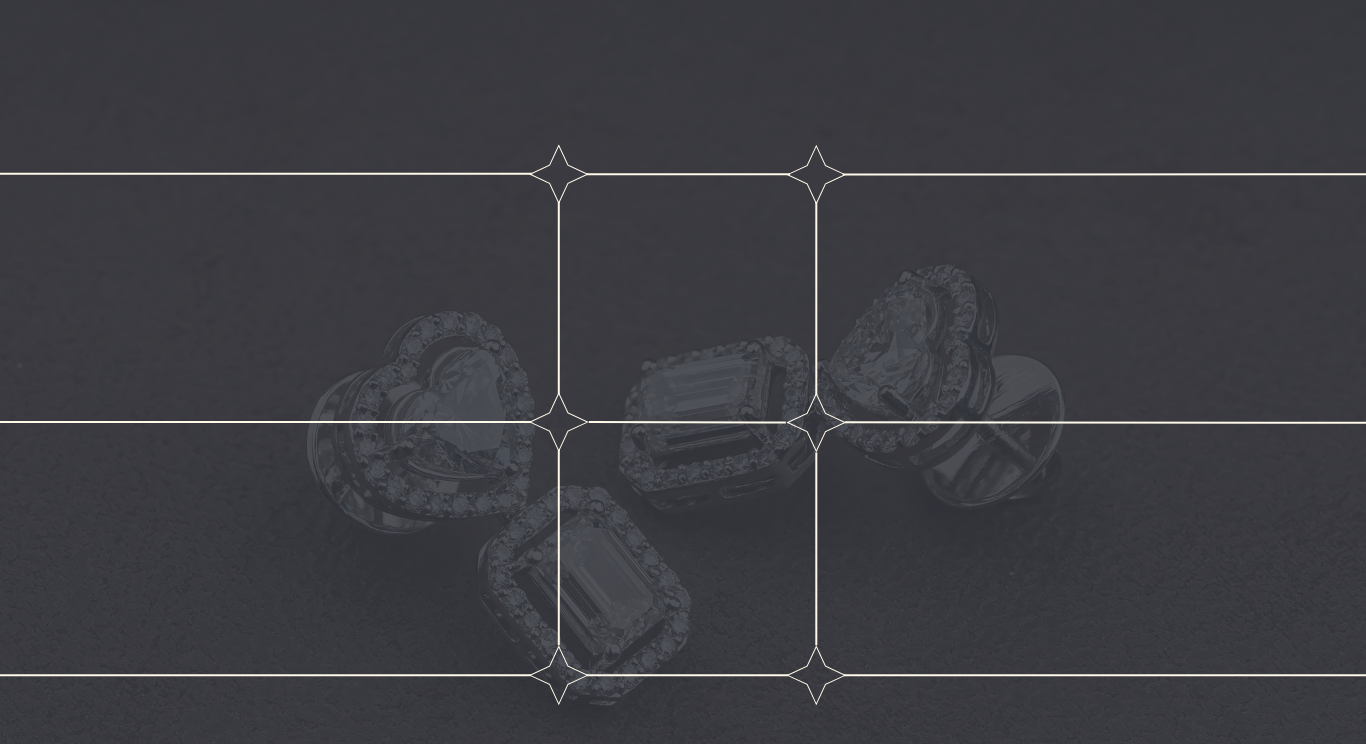
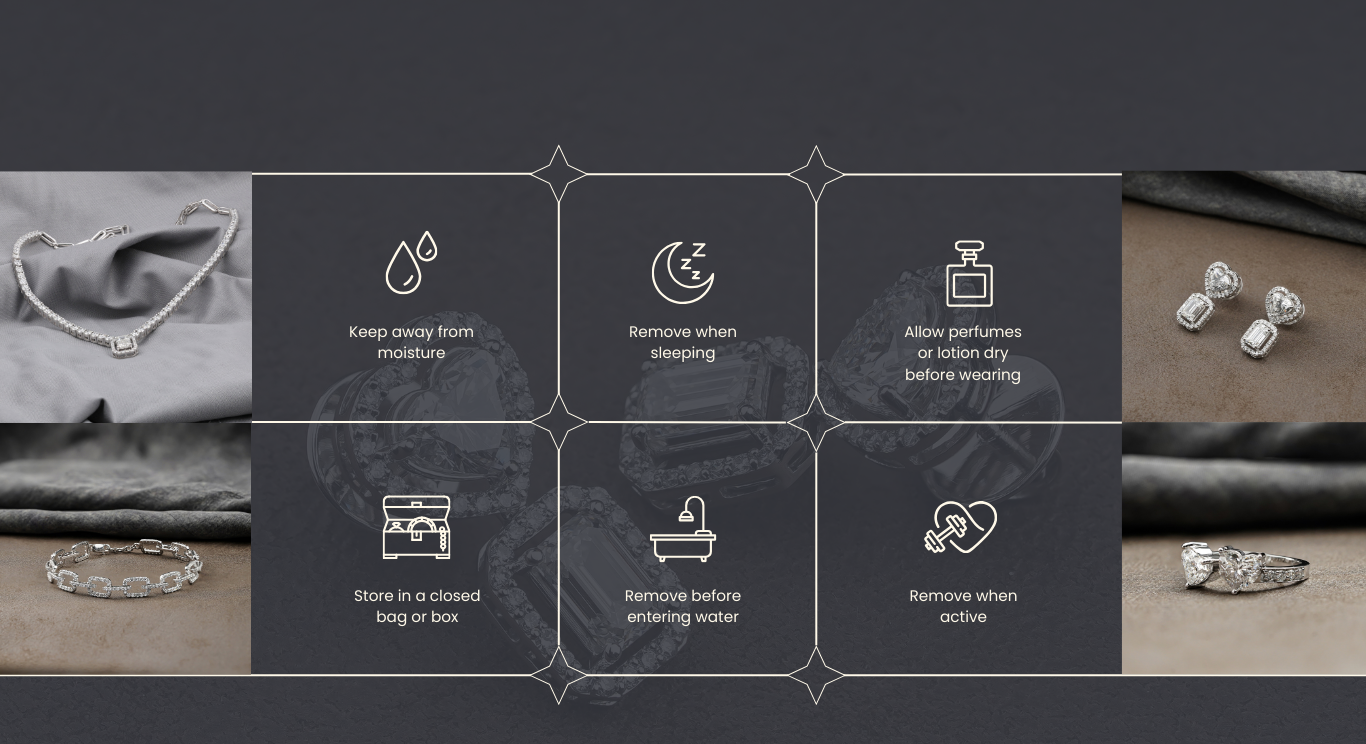
added: jewelry blog

diff --git a/src/components/JewelleryCare.jsx b/src/components/JewelleryCare.jsx
@@ -1,0 +1,97 @@
+import React from 'react';
+import Image from 'next/image';
+import background from '../../public/images/Home/jewelry-bg.png';
+import { motion } from "framer-motion";
+import img1 from '../../public/images/Home/img1.png';
+import img2 from '../../public/images/Home/img2.png';
+import img3 from '../../public/images/Home/img3.png';
+import img4 from '../../public/images/Home/img4.png';
+import drop from '../../public/images/Home/drop.png';
+import moon from '../../public/images/Home/moon.png';
+import bottle from '../../public/images/Home/bottle.png';
+import treasure from '../../public/images/Home/treasure.png';
+import tub from '../../public/images/Home/tub.png';
+import heart from '../../public/images/Home/heart.png';
+
+const JewelleryCare = () => {
+    
+    return (
+        <div className="relative xl:h-auto min-h-screen bg-[#373941]">
+            <div className="">
+                <Image
+                    src={background}
+                    alt="Background"
+                    layout="fill"
+                    // objectFit="fill"
+                    priority
+                    className='xl:object-fill md:object-fill object-contain'
+                />
+            </div>
+            <div className="relative text-center py-12 px-4 md:px-12">
+    <motion.h2
+        className="text-white italic text-2xl md:text-4xl xl:text-5xl"
+        style={{ fontFamily: 'Majesty, cursive' }}
+        initial={{ y: -20, opacity: 0 }}
+        whileInView={{ y: 0, opacity: 1 }}
+        transition={{ duration: 0.6 }}
+        viewport={{ once: false }}
+    >
+        Jewelry Care
+    </motion.h2>
+    <motion.p
+        className="text-white mt-4 text-base md:text-xl xl:text-2xl"
+        style={{ fontFamily: 'var(--font-montserrat)' }}
+        initial={{ y: -20, opacity: 0 }}
+        whileInView={{ y: 0, opacity: 1 }}
+        transition={{ duration: 0.6 }}
+        viewport={{ once: false }}
+    >
+        How should you take care of your jewelry
+    </motion.p>
+</div>
+
+            {/*<div className="relative grid grid-cols-2 sm:grid-cols-3 md:grid-cols-5 gap-6 px-6 pb-16">
+                <div className="flex justify-center items-center">
+                    <Image src={img1} alt="Jewelry" className="object-contain h-auto max-h-60" />
+                </div>
+                <div className="flex flex-col items-center text-center">
+                    <Image src={drop} alt="Moisture Icon" className="w-12 h-12 mb-2" />
+                    <p className="text-white text-sm md:text-base">Keep away from moisture</p>
+                </div>
+                <div className="flex flex-col items-center text-center">
+                    <Image src={moon} alt="Sleep Icon" className="w-12 h-12 mb-2" />
+                    <p className="text-white text-sm md:text-base">Remove when sleeping</p>
+                </div>
+                <div className="flex flex-col items-center text-center">
+                    <Image src={bottle} alt="Perfume Icon" className="w-12 h-12 mb-2" />
+                    <p className="text-white text-sm md:text-base px-2 leading-snug">
+                        Allow perfumes or lotion to dry before wearing
+                    </p>
+                </div>
+                <div className="flex justify-center items-center">
+                    <Image src={img2} alt="Jewelry" className="object-contain h-auto max-h-60" />
+                </div>
+                <div className="flex justify-center items-center">
+                    <Image src={img3} alt="Jewelry" className="object-contain h-auto max-h-60" />
+                </div>
+                <div className="flex flex-col items-center text-center">
+                    <Image src={treasure} alt="Storage Icon" className="w-12 h-12 mb-2" />
+                    <p className="text-white text-sm md:text-base">Store in a closed bag or box</p>
+                </div>
+                <div className="flex flex-col items-center text-center">
+                    <Image src={tub} alt="Water Icon" className="w-12 h-12 mb-2" />
+                    <p className="text-white text-sm md:text-base">Remove before entering water</p>
+                </div>
+                <div className="flex flex-col items-center text-center">
+                    <Image src={heart} alt="Active Icon" className="w-12 h-12 mb-2" />
+                    <p className="text-white text-sm md:text-base">Remove when active</p>
+                </div>
+                <div className="flex justify-center items-center">
+                    <Image src={img4} alt="Jewelry" className="object-contain h-auto max-h-[400px]" />
+                </div>
+            </div> */}
+        </div>
+    );
+};
+
+export default JewelleryCare;

diff --git a/src/app/page.js b/src/app/page.js
@@ -7,7 +7,8 @@ import Image from "next/image";
 import OurProduct from "@/components/OurProductSection";
 import background from "../../public/images/Home/background.png";
 import blog from '../../public/images/Home/blog-forest.png'
-import backgroundForest from '../../public/images/Home/jewelry-bg.png'
+import backgroundForest from '../../public/images/Home/jewellery-icon.png'
+import JewelleryCare from "@/components/JewelleryCare";
 
 const fadeIn = {
   hidden: { opacity: 0, y: 50 },
@@ -34,11 +35,11 @@ const Home = () => {
         <motion.div
           initial="hidden"
           whileInView="visible"
-          viewport={{ once: true }}
+          viewport={{ once: false}}
           variants={fadeIn}
           className="relative flex xl:flex-row flex-col xl:justify-around justify-center items-center p-4 h-screen"
         >
-          <motion.div variants={fadeIn}>
+          <motion.div variants={fadeIn} viewport={false}>
             <Image
               src={story}
               alt="Our Story"
@@ -49,6 +50,7 @@ const Home = () => {
           </motion.div>
           <motion.p
             variants={fadeIn}
+            viewport={{ once: false}}
             className="relative text-xl xl:text-3xl font-medium italic font-montserrat leading-relaxed"
             style={{ fontFamily: "Public Sans, sans" }}
           >
@@ -83,6 +85,7 @@ const Home = () => {
                 initial={{ opacity: 0, y: -30 }}
                 animate={{ opacity: 1, y: 0 }}
                 transition={{ duration: 0.8 }}
+                viewport={{ once: false }}
                 variants={fadeLeft}
                 className="text-3xl md:text-3xl xl:text-4xl italic font-normal mb-8 text-[#323232]"
                 style={{
@@ -94,12 +97,12 @@ const Home = () => {
               </motion.h2>
             </div>
 
-            <div className="grid grid-cols-1 md:grid-cols-3 gap-8 place-items-center">
+            <div className="grid grid-cols-1 md:grid-cols-3 gap-8 place-items-center ">
               <motion.p
                 initial="hidden"
                 whileInView="visible"
-                viewport={{ once: true }}
-                variants={fadeIn} className="font-justify text-xl" style={{ fontFamily: 'var(--font-montserrat)' }}>
+                viewport={{ once: false}}
+                variants={fadeIn} className="font-justify text-sm md:text-base xl:text-xl" style={{ fontFamily: 'var(--font-montserrat)' }}>
                 Our focus is on building strong relationships, offering reliable service, and ensuring that our jewelry meets the highest standards of beauty and quality.
               </motion.p>
 
@@ -112,35 +115,17 @@ const Home = () => {
               <motion.p
                 initial="hidden"
                 whileInView="visible"
-                viewport={{ once: true }}
-                variants={fadeIn} className="font-justify text-xl" style={{ fontFamily: 'var(--font-montserrat)' }}>
+                viewport={{ once: false}}
+                variants={fadeIn} className="font-justify text-sm md:text-base xl:text-xl" style={{ fontFamily: 'var(--font-montserrat)' }}>
                 Whether you are a retailer, wholesaler, or designer, we are here to provide the perfect diamond jewelry solutions tailored to your business needs.
               </motion.p>
             </div>
           </div>
         </div>
       </section>
-      {/* <section>
-        <div className='relative h-screen'>
-          <div className="absolute inset-0 -z-10">
-            <Image
-              src={backgroundForest}
-              alt="background Image"
-              layout="fill"
-              objectFit="fill"
-              priority
-            />
-            <div className="relative grid place-items-center m-4">
-              <h2 className="text-white italic text-5xl" style={{ fontFamily: 'Majesty, Elegant, Script, Luxury, cursive' }}>Jewelry Care</h2>
-              <p className="text-white text-3xl mt-3" style={{ fontFamily: 'var(--font-montserrat)' }}>How should you take care of your jewelry</p>
-            </div>
-            <div className="grid grid-cols-5">
-              <
-
-            </div>
-          </div>
-        </div>
-      </section> */}
+      <section>
+        <JewelleryCare/>
+      </section>
     </div>
   );
 };

diff --git a/src/components/OurProductSection.jsx b/src/components/OurProductSection.jsx
@@ -16,7 +16,10 @@ const fadeLeft = {
 };
 
 function OurProduct() {
-
+  const fadeIn = {
+    hidden: { opacity: 0, y: 50 },
+    visible: { opacity: 1, y: 0, transition: { duration: 1 } },
+  };
   const categoryImages = [
     { img: earring, alt: "EARRING" },
     { img: ring, alt: "RING" },
@@ -57,9 +60,14 @@ function OurProduct() {
                 />
               </Link>
             </div>
-            <h1 className="relative text-center xl:text-xl mt-3 font-bold text-[#323232]">
+            <motion.h1
+                            initial="hidden"
+                            whileInView="visible"
+                            viewport={{ once: false}}
+                            variants={fadeIn} 
+                            className="relative text-center xl:text-xl mt-3 font-bold text-[#323232]">
               {item.alt}
-            </h1>
+            </motion.h1>
           </div>
         ))}
       </div>
